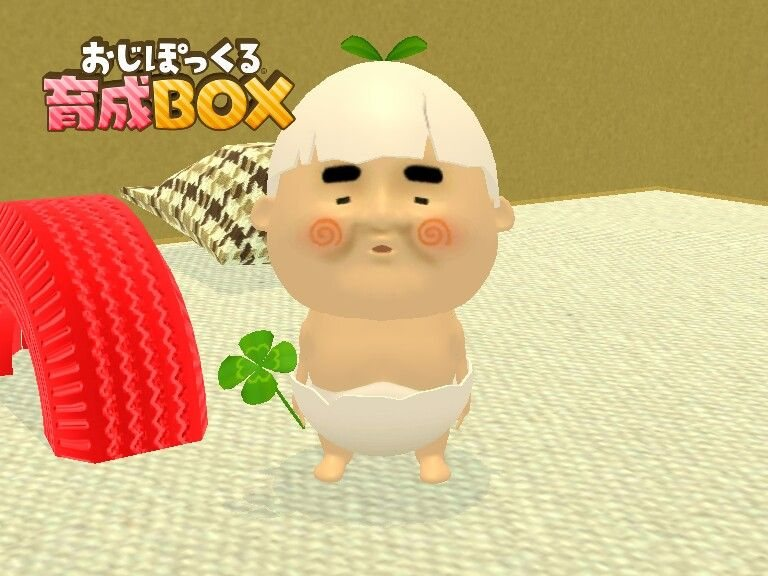
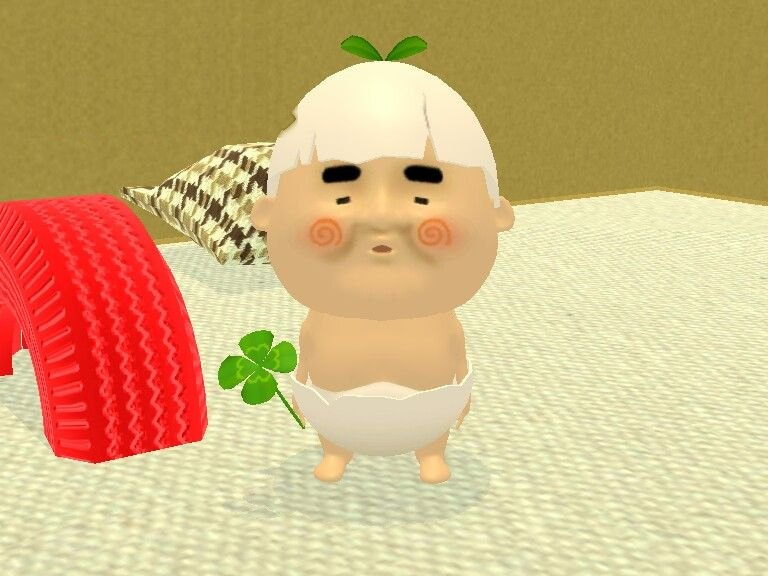
Remove title from egg baby photo; lighting follows time of day and optional live weather
Claude-Session: https://claude.ai/code/session_017PaBnN8AfWxPJyBcQfRLgQ

Changed region(s): [[0.0312, 0.0625, 0.4062, 0.25]]

diff --git a/src/App.tsx b/src/App.tsx
@@ -1,9 +1,11 @@
 import { useEffect, useMemo, useState } from 'react'
 import { AnimatePresence, MotionConfig, useReducedMotion } from 'motion/react'
-import { Receipt, Library, Volume2, VolumeX, Feather } from 'lucide-react'
+import { Receipt, Library, Volume2, VolumeX, Feather, CloudSun } from 'lucide-react'
 import { ITEMS, type Item } from './data/items'
 import { useSaved } from './lib/store'
 import { setSoundEnabled } from './lib/sound'
+import { LOOK, WASH, fetchWeather, getPosition, phaseFor, useNow, type Sun, type Weather } from './lib/sky'
+import { WeatherFx } from './components/WeatherFx'
 import { VendingMachine } from './components/VendingMachine'
 import { CollectionShelf } from './components/CollectionShelf'
 import { MaintenanceLog } from './components/MaintenanceLog'
@@ -31,6 +33,34 @@ export default function App() {
   }, [reduced])
   useEffect(() => setSoundEnabled(saved.sound), [saved.sound])
 
+  // Lighting follows the visitor's local clock; live weather is opt-in (it needs their rough location).
+  const now = useNow()
+  const [live, setLive] = useState<{ weather: Weather; sun: Sun } | null>(null)
+  const [skyMsg, setSkyMsg] = useState('')
+  useEffect(() => {
+    if (!saved.place) return setLive(null)
+    let stop = false
+    fetchWeather(saved.place.lat, saved.place.lon).then((w) => !stop && setLive(w)).catch(() => !stop && setSkyMsg('Could not reach the weather. The machine will guess.'))
+    return () => { stop = true }
+  }, [saved.place])
+  const toggleWeather = async () => {
+    if (saved.place) return (update((s) => ({ ...s, place: null })), setSkyMsg('Weather off. The machine goes back to guessing.'))
+    setSkyMsg('Asking for your rough location, only to check the weather…')
+    try {
+      const place = await getPosition()
+      update((s) => ({ ...s, place }))
+      setSkyMsg('')
+    } catch {
+      setSkyMsg('No location, no weather. The machine will go by the clock.')
+    }
+  }
+  const q = new URLSearchParams(location.search)
+  const forcedPhase = q.get('sky') as keyof typeof LOOK | null
+  const phase = forcedPhase && forcedPhase in LOOK ? forcedPhase : phaseFor(now, live?.sun)
+  const forcedWeather = q.get('weather') as Weather | null
+  const weather: Weather = forcedWeather && forcedWeather in WASH ? forcedWeather : live?.weather ?? 'clear'
+
+
   const onCollect = (item: Item) => {
     const isNew = !saved.owned[item.id]
     collect(item.id)
@@ -42,7 +72,10 @@ export default function App() {
 
   return (
     <MotionConfig reducedMotion={reduced ? 'always' : 'user'}>
-      <div className="scene relative flex min-h-screen flex-col overflow-x-clip">
+      <div className="scene relative flex min-h-screen flex-col overflow-x-clip" data-phase={phase} data-weather={weather} style={{ ...LOOK[phase], ["--wash" as string]: WASH[weather] }}>
+        <div className="sky-tint" aria-hidden />
+        <div className="sky-wash" aria-hidden />
+        <WeatherFx weather={weather} />
         {!reduced && (
           <div className="pointer-events-none absolute inset-0" aria-hidden>
             {dust.map((p, i) => (
@@ -55,12 +88,13 @@ export default function App() {
           <h1 className="drop-in paper mx-auto inline-block max-w-[92vw] -rotate-[0.6deg] border-[3px] border-burgundy px-5 py-3 font-display text-[22px] font-bold leading-tight tracking-wide text-charcoal shadow-[4px_5px_0_rgba(64,59,54,.3)] sm:text-4xl md:text-[36px]">
             THE EMOTIONAL VENDING MACHINE
           </h1>
-          <p style={{ ["--d" as string]: ".5s" }} className="rise mt-3 font-tagline text-[19px] font-medium italic leading-snug text-burgundy sm:text-[22px] md:text-[26px]">“Some things you need aren’t sold in stores.”</p>
+          <p style={{ ["--d" as string]: ".5s" }} className="rise mt-3 font-tagline [color:var(--tagline)] text-[19px] font-medium italic leading-snug sm:text-[22px] md:text-[26px]">“Some things you need aren’t sold in stores.”</p>
         </header>
 
         <main className="relative z-10 flex flex-1 flex-col">
           <div className="px-3">
           <div style={{ ["--d" as string]: ".25s" }} className="rise relative mx-auto max-w-[580px]">
+            <div className="sky-spill pointer-events-none absolute -inset-x-28 -inset-y-12" aria-hidden />
             <div className="absolute right-[calc(100%+30px)] top-[10px] hidden lg:block" aria-hidden><NeonSign /></div>
             <div className="absolute right-[calc(100%+150px)] top-[110px] hidden xl:block" aria-hidden><TearFlyer /></div>
             <div className="absolute -right-[84px] bottom-0 hidden lg:block" aria-hidden>
@@ -79,11 +113,11 @@ export default function App() {
           </div>
           </div>
 
-          <div className="ground relative flex-1 px-3 pb-10 pt-6">
-            <div className="street-glow pointer-events-none absolute left-1/2 top-0 h-[160px] w-[760px] max-w-full -translate-x-1/2" aria-hidden />
+          <div className="ground ground-text relative flex-1 px-3 pb-10 pt-6">
+            <div className="pointer-events-none absolute left-1/2 top-0 h-[160px] w-[760px] max-w-full -translate-x-1/2" style={{ opacity: "var(--glow)" }} aria-hidden><div className="street-glow h-full w-full" /></div>
             <div className="puddle pointer-events-none absolute left-[calc(50%-190px)] top-[10px] h-[22px] w-[170px]" aria-hidden />
-            <div className="pointer-events-none absolute left-[6%] top-[4px]" aria-hidden><Pigeon /></div>
-          <p className="relative mx-auto mt-5 max-w-[34rem] text-center font-serif text-[15px] font-medium text-charcoal">
+            {phase !== "night" && <div className="pointer-events-none absolute left-[6%] top-[4px]" aria-hidden><Pigeon /></div>}
+          <p className="relative mx-auto mt-5 max-w-[34rem] text-center font-serif text-[15px] font-medium">
             Open 24 hours. No money required. No refunds on existential realizations.
           </p>
 
@@ -100,10 +134,15 @@ export default function App() {
             <button className="btn" aria-pressed={saved.sound} onClick={() => update((s) => ({ ...s, sound: !s.sound }))}>
               {saved.sound ? <Volume2 size={17} aria-hidden /> : <VolumeX size={17} aria-hidden />} Sound: {saved.sound ? 'on' : 'off'}
             </button>
+            <button className="btn" aria-pressed={!!saved.place} onClick={toggleWeather}>
+              <CloudSun size={17} aria-hidden /> Live weather: {saved.place ? 'on' : 'off'}
+            </button>
             <button className="btn" aria-pressed={reduced} onClick={() => update((s) => ({ ...s, calm: !reduced }))}>
               <Feather size={17} aria-hidden /> Calm motion: {reduced ? 'on' : 'off'}
             </button>
           </nav>
+
+          <p role="status" className="relative mx-auto mt-3 max-w-md text-center font-serif text-sm">{skyMsg}</p>
 
           {!storageOk && (
             <p role="alert" className="mx-auto mt-4 max-w-md rounded-lg border-2 border-burgundy bg-cream p-2 text-center font-serif text-sm text-burgundy">
@@ -111,7 +150,7 @@ export default function App() {
             </p>
           )}
 
-          <footer className="relative mx-auto mt-8 max-w-md text-center font-serif text-[13px] leading-relaxed text-charcoal/85">
+          <footer className="relative mx-auto mt-8 max-w-md text-center font-serif text-[13px] leading-relaxed opacity-90">
             A small thing made with care. I don’t know what you’re going through. I am a vending machine. If today is heavier than a vending machine can carry, a person can carry it better. Please talk to one.
           </footer>
           </div>

diff --git a/src/lib/sky.ts b/src/lib/sky.ts
@@ -1,0 +1,67 @@
+import { useEffect, useState } from 'react'
+
+export type Phase = 'dawn' | 'day' | 'dusk' | 'night'
+export type Weather = 'clear' | 'cloudy' | 'rain' | 'snow' | 'fog' | 'storm'
+export interface Sun { rise: number; set: number } // minutes since local midnight
+
+// Lighting for each phase. Tints are multiplied over the wall; text colours keep things readable.
+export const LOOK: Record<Phase, Record<string, string>> = {
+  day: { '--tint': 'rgba(255,255,255,0)', '--spill': '0', '--glow': '.18', '--neon': '.75', '--ground': '#B7AB99', '--ground-text': '#403B36', '--tagline': '#914F4F' },
+  dawn: { '--tint': 'rgba(255,176,160,.42)', '--spill': '.2', '--glow': '.35', '--neon': '.85', '--ground': '#BBA79B', '--ground-text': '#403B36', '--tagline': '#914F4F' },
+  dusk: { '--tint': 'rgba(255,132,70,.42)', '--spill': '.45', '--glow': '.6', '--neon': '1', '--ground': '#A8978C', '--ground-text': '#2f2b27', '--tagline': '#7d3d3d' },
+  night: { '--tint': 'rgba(34,44,110,.66)', '--spill': '1', '--glow': '1', '--neon': '1.15', '--ground': '#4D4A57', '--ground-text': '#F5EEDF', '--tagline': '#F5EEDF' },
+}
+// Weather lays a flat wash over the wall (normal blend) on top of the phase tint.
+export const WASH: Record<Weather, string> = {
+  clear: 'rgba(0,0,0,0)',
+  cloudy: 'rgba(120,126,138,.28)',
+  rain: 'rgba(86,98,120,.38)',
+  storm: 'rgba(52,58,82,.5)',
+  snow: 'rgba(230,236,246,.34)',
+  fog: 'rgba(225,225,228,.5)',
+}
+
+export function phaseFor(d: Date, sun?: Sun | null): Phase {
+  const m = d.getHours() * 60 + d.getMinutes()
+  const rise = sun?.rise ?? 6.5 * 60
+  const set = sun?.set ?? 18.5 * 60
+  if (m >= rise - 40 && m < rise + 50) return 'dawn'
+  if (m >= rise + 50 && m < set - 60) return 'day'
+  if (m >= set - 60 && m < set + 40) return 'dusk'
+  return 'night'
+}
+
+// Open-Meteo: free, no key. WMO weather codes -> our handful of moods.
+const codeToWeather = (c: number): Weather =>
+  c >= 95 ? 'storm' : c >= 71 && c <= 77 ? 'snow' : c === 85 || c === 86 ? 'snow' : c === 45 || c === 48 ? 'fog' : (c >= 51 && c <= 67) || (c >= 80 && c <= 82) ? 'rain' : c === 2 || c === 3 ? 'cloudy' : 'clear'
+
+const minutes = (iso: string) => {
+  const t = iso.split('T')[1]
+  const [h, m] = t.split(':').map(Number)
+  return h * 60 + m
+}
+
+export async function fetchWeather(lat: number, lon: number): Promise<{ weather: Weather; sun: Sun }> {
+  const url = `https://api.open-meteo.com/v1/forecast?latitude=${lat}&longitude=${lon}&current=weather_code&daily=sunrise,sunset&timezone=auto&forecast_days=1`
+  const r = await fetch(url)
+  if (!r.ok) throw new Error('weather unavailable')
+  const j = await r.json()
+  return { weather: codeToWeather(j.current.weather_code), sun: { rise: minutes(j.daily.sunrise[0]), set: minutes(j.daily.sunset[0]) } }
+}
+
+export function getPosition(): Promise<{ lat: number; lon: number }> {
+  return new Promise((res, rej) => {
+    if (!navigator.geolocation) return rej(new Error('no geolocation'))
+    // Rounded to ~11 km: plenty for weather, and not precise enough to be a location.
+    navigator.geolocation.getCurrentPosition((p) => res({ lat: Math.round(p.coords.latitude * 10) / 10, lon: Math.round(p.coords.longitude * 10) / 10 }), rej, { timeout: 10000, maximumAge: 3600_000 })
+  })
+}
+
+export function useNow(everyMs = 60_000) {
+  const [now, setNow] = useState(() => new Date())
+  useEffect(() => {
+    const id = setInterval(() => setNow(new Date()), everyMs)
+    return () => clearInterval(id)
+  }, [everyMs])
+  return now
+}

diff --git a/src/index.css b/src/index.css
@@ -216,7 +216,7 @@ body {
 .puddle { border-radius: 50%; background: radial-gradient(ellipse, rgba(255,250,240,.55), rgba(163,177,138,.25) 60%, transparent 72%); border-bottom: 2px solid rgba(64,59,54,.25); animation: shimmer 5s ease-in-out infinite; }
 .pigeon-walk { animation: pigeonwalk 26s linear infinite; }
 .pigeon-head { transform-box: fill-box; transform-origin: 30% 100%; animation: peck 1.4s ease-in-out infinite; }
-.neon { box-shadow: 0 0 18px rgba(212,165,165,.55), inset 0 0 8px rgba(0,0,0,.6); }
+.neon { filter: brightness(var(--neon, 1)); box-shadow: 0 0 18px rgba(212,165,165,.55), inset 0 0 8px rgba(0,0,0,.6); }
 .neon-a { color: #F2D98D; text-shadow: 0 0 6px #F2D98D, 0 0 14px rgba(242,217,141,.7); animation: neon 6s ease-in-out infinite; }
 .neon-b { color: #D4A5A5; text-shadow: 0 0 6px #D4A5A5, 0 0 12px rgba(212,165,165,.7); }
 @keyframes lampflick { 0%,100% { opacity: 1 } 40% { opacity: .88 } 42% { opacity: 1 } 75% { opacity: .92 } }
@@ -224,6 +224,21 @@ body {
 @keyframes pigeonwalk { 0% { transform: translateX(0) scaleX(1) } 42% { transform: translateX(150px) scaleX(1) } 50% { transform: translateX(150px) scaleX(-1) } 92% { transform: translateX(0) scaleX(-1) } 100% { transform: translateX(0) scaleX(1) } }
 @keyframes peck { 0%,60%,100% { transform: rotate(0) } 70% { transform: rotate(32deg) translateY(2px) } 80% { transform: rotate(0) } 90% { transform: rotate(28deg) } }
 @keyframes neon { 0%,100% { opacity: 1 } 47% { opacity: .85 } 50% { opacity: 1 } }
+
+/* ---- time-of-day and weather ---- */
+.sky-tint { position: absolute; inset: 0; z-index: 1; pointer-events: none; background: var(--tint); mix-blend-mode: multiply; transition: background 1.5s; }
+.sky-wash { position: absolute; inset: 0; z-index: 2; pointer-events: none; background: var(--wash); transition: background 1.5s; }
+.sky-spill { background: radial-gradient(ellipse at 50% 45%, rgba(255,226,150,.55), rgba(255,226,150,.18) 45%, transparent 70%); opacity: var(--spill); transition: opacity 1.5s; }
+.ground { background-color: var(--ground); transition: background-color 1.5s; }
+.ground-text { color: var(--ground-text); transition: color 1.5s; }
+.fx-rain { position: absolute; top: -60px; width: 1.5px; background: linear-gradient(transparent, rgba(235,244,255,.7)); animation: rain linear infinite; transform: rotate(8deg); }
+.fx-snow { position: absolute; top: -10px; border-radius: 50%; background: #fff; opacity: .85; animation: snow linear infinite; }
+.fx-fog { background: linear-gradient(transparent, rgba(240,240,242,.55) 55%, rgba(240,240,242,.2)); animation: fogdrift 18s ease-in-out infinite alternate; }
+@keyframes rain { to { transform: translate(-30px, 130vh) rotate(8deg) } }
+@keyframes snow { 0% { transform: translate(0,0) } 50% { transform: translate(24px, 60vh) } 100% { transform: translate(-10px, 125vh) } }
+@keyframes fogdrift { from { transform: translateX(-3%) } to { transform: translateX(3%) } }
+.calm .fx { display: none; }
+.calm .fx-fog { display: block; }
 
 /* Calm motion: switched on by the visitor or by the system setting. */
 .calm *, .calm *::before, .calm *::after { animation: none !important; transition-duration: .01ms !important; }

diff --git a/src/components/WeatherFx.tsx b/src/components/WeatherFx.tsx
@@ -1,0 +1,26 @@
+import type { Weather } from '../lib/sky'
+
+const drops = Array.from({ length: 46 }, (_, i) => ({ left: (i * 23 + 7) % 100, delay: -((i * 0.37) % 1.4), dur: 0.7 + (i % 5) * 0.12, h: 26 + (i % 4) * 10 }))
+const flakes = Array.from({ length: 36 }, (_, i) => ({ left: (i * 29 + 5) % 100, delay: -((i * 0.9) % 9), dur: 7 + (i % 6), s: 3 + (i % 4) }))
+
+// Weather that falls in front of the wall, behind the machine. Hidden by Calm motion (see index.css).
+export function WeatherFx({ weather }: { weather: Weather }) {
+  if (weather === 'rain' || weather === 'storm')
+    return (
+      <div className="fx pointer-events-none absolute inset-0 z-[3] overflow-hidden" aria-hidden>
+        {drops.map((d, i) => (
+          <i key={i} className="fx-rain" style={{ left: `${d.left}%`, height: d.h, animationDuration: `${d.dur}s`, animationDelay: `${d.delay}s` }} />
+        ))}
+      </div>
+    )
+  if (weather === 'snow')
+    return (
+      <div className="fx pointer-events-none absolute inset-0 z-[3] overflow-hidden" aria-hidden>
+        {flakes.map((f, i) => (
+          <i key={i} className="fx-snow" style={{ left: `${f.left}%`, width: f.s, height: f.s, animationDuration: `${f.dur}s`, animationDelay: `${f.delay}s` }} />
+        ))}
+      </div>
+    )
+  if (weather === 'fog') return <div className="fx fx-fog pointer-events-none absolute inset-x-0 bottom-0 top-1/3 z-[3]" aria-hidden />
+  return null
+}

diff --git a/src/lib/store.ts b/src/lib/store.ts
@@ -7,10 +7,11 @@ export interface Saved {
   favs: string[]
   sound: boolean
   calm: boolean | null // null = follow the system setting
+  place: { lat: number; lon: number } | null // rounded; set only if the visitor asks for live weather
 }
 
 const KEY = 'evm:v1'
-const empty: Saved = { owned: {}, order: [], favs: [], sound: false, calm: null }
+const empty: Saved = { owned: {}, order: [], favs: [], sound: false, calm: null, place: null }
 const known = new Set(ITEMS.map((i) => i.id))
 
 function load(): Saved {
@@ -27,6 +28,7 @@ function load(): Saved {
       favs: (Array.isArray(r.favs) ? r.favs : []).filter((id: string) => owned[id]),
       sound: r.sound === true,
       calm: typeof r.calm === 'boolean' ? r.calm : null,
+      place: r.place && typeof r.place.lat === 'number' && typeof r.place.lon === 'number' ? { lat: r.place.lat, lon: r.place.lon } : null,
     }
   } catch {
     return empty
